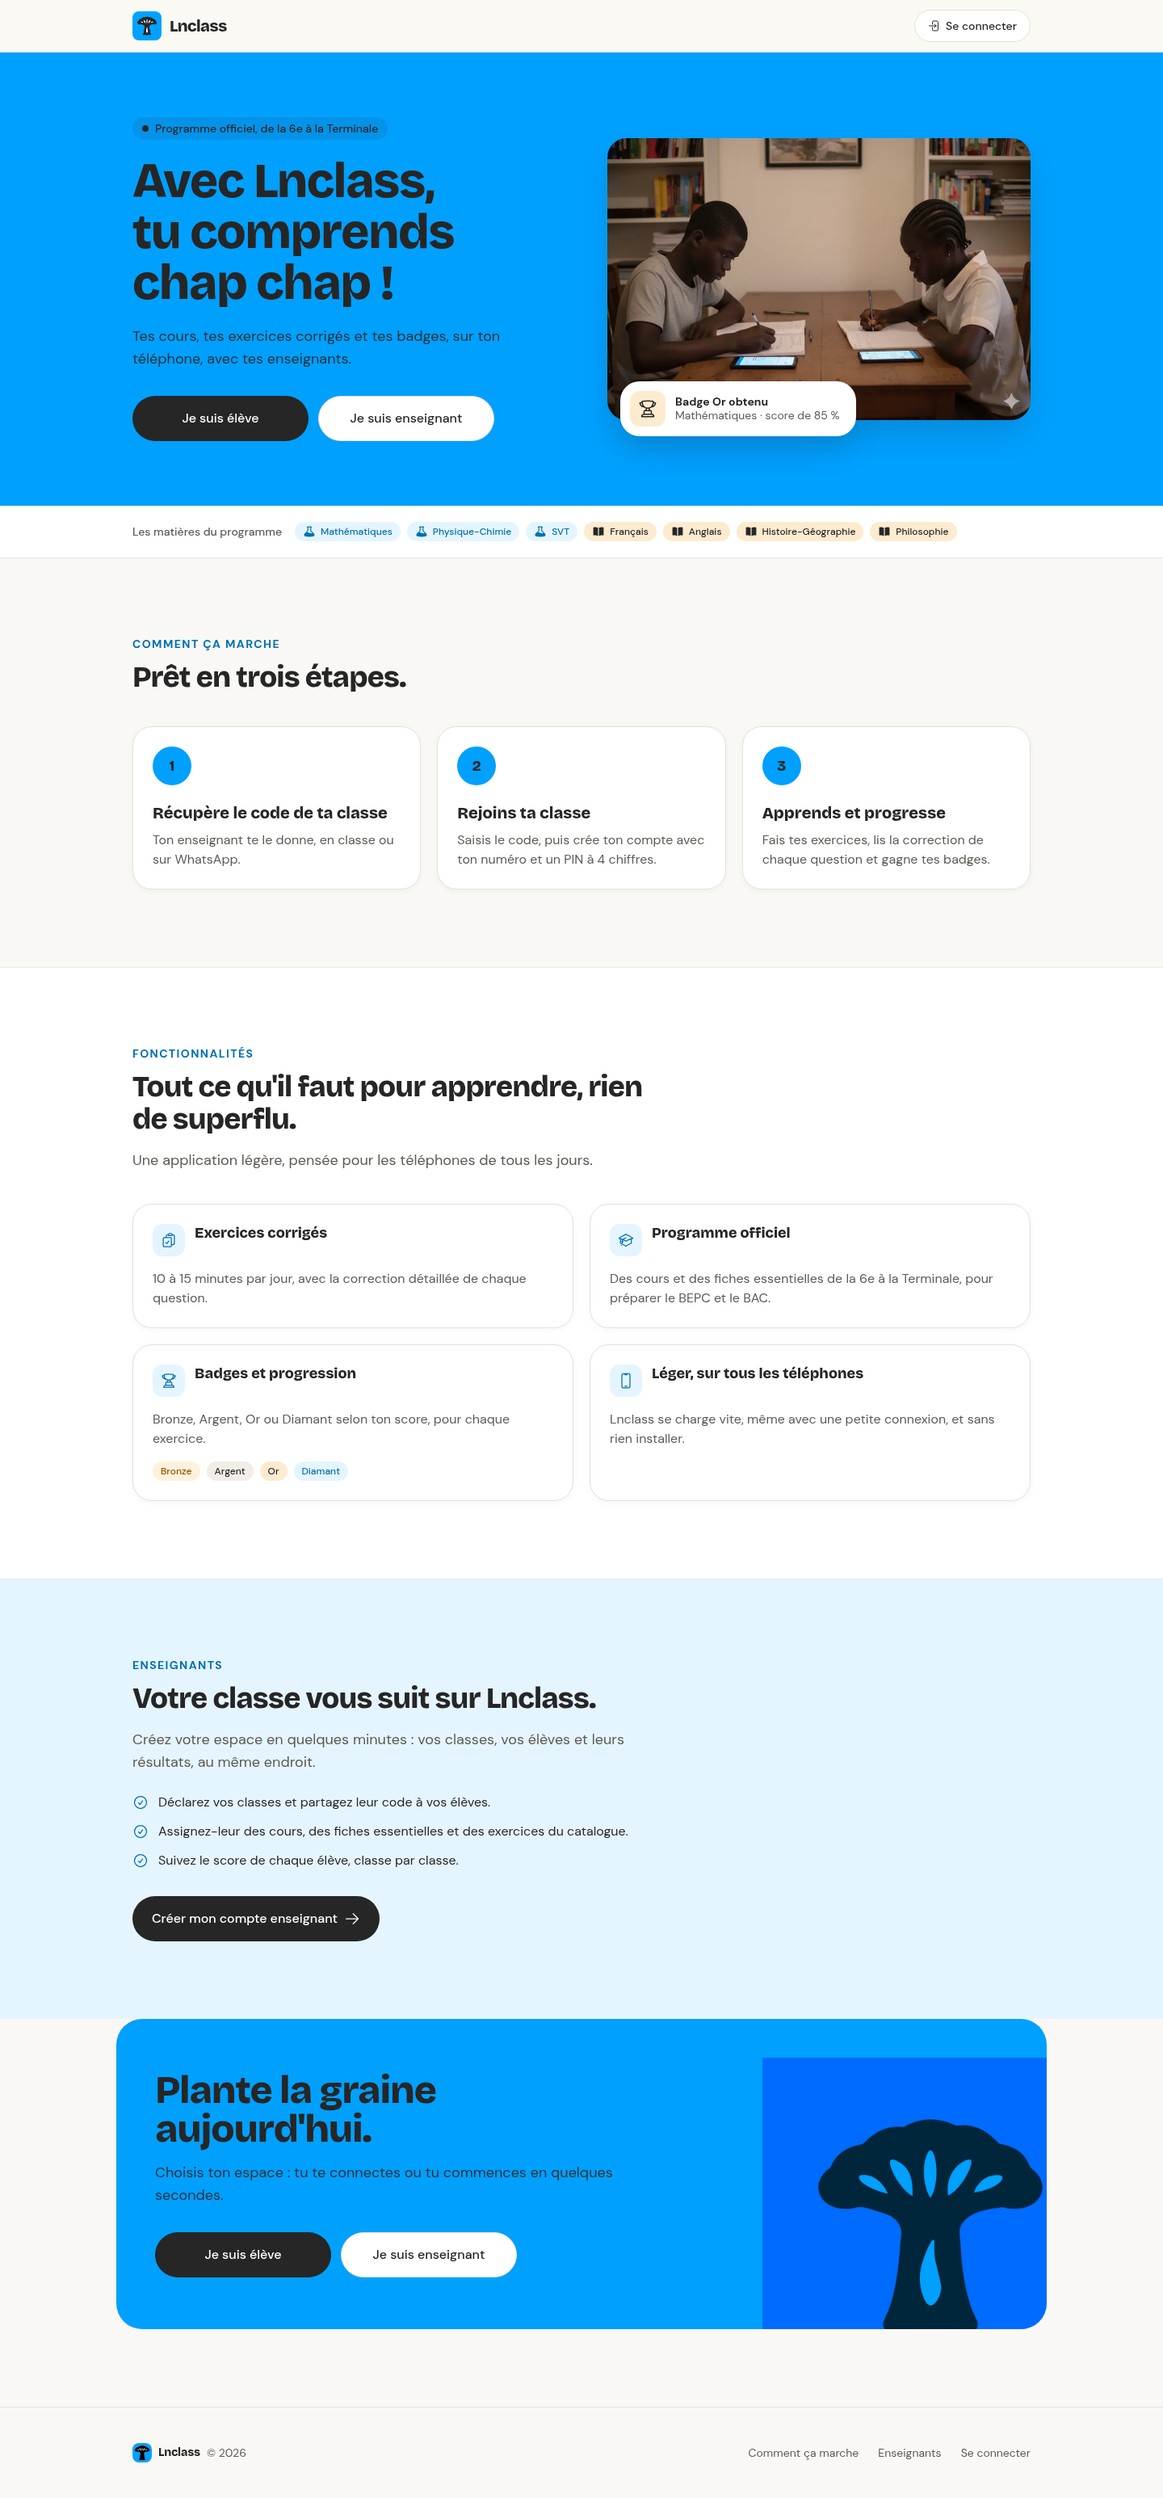
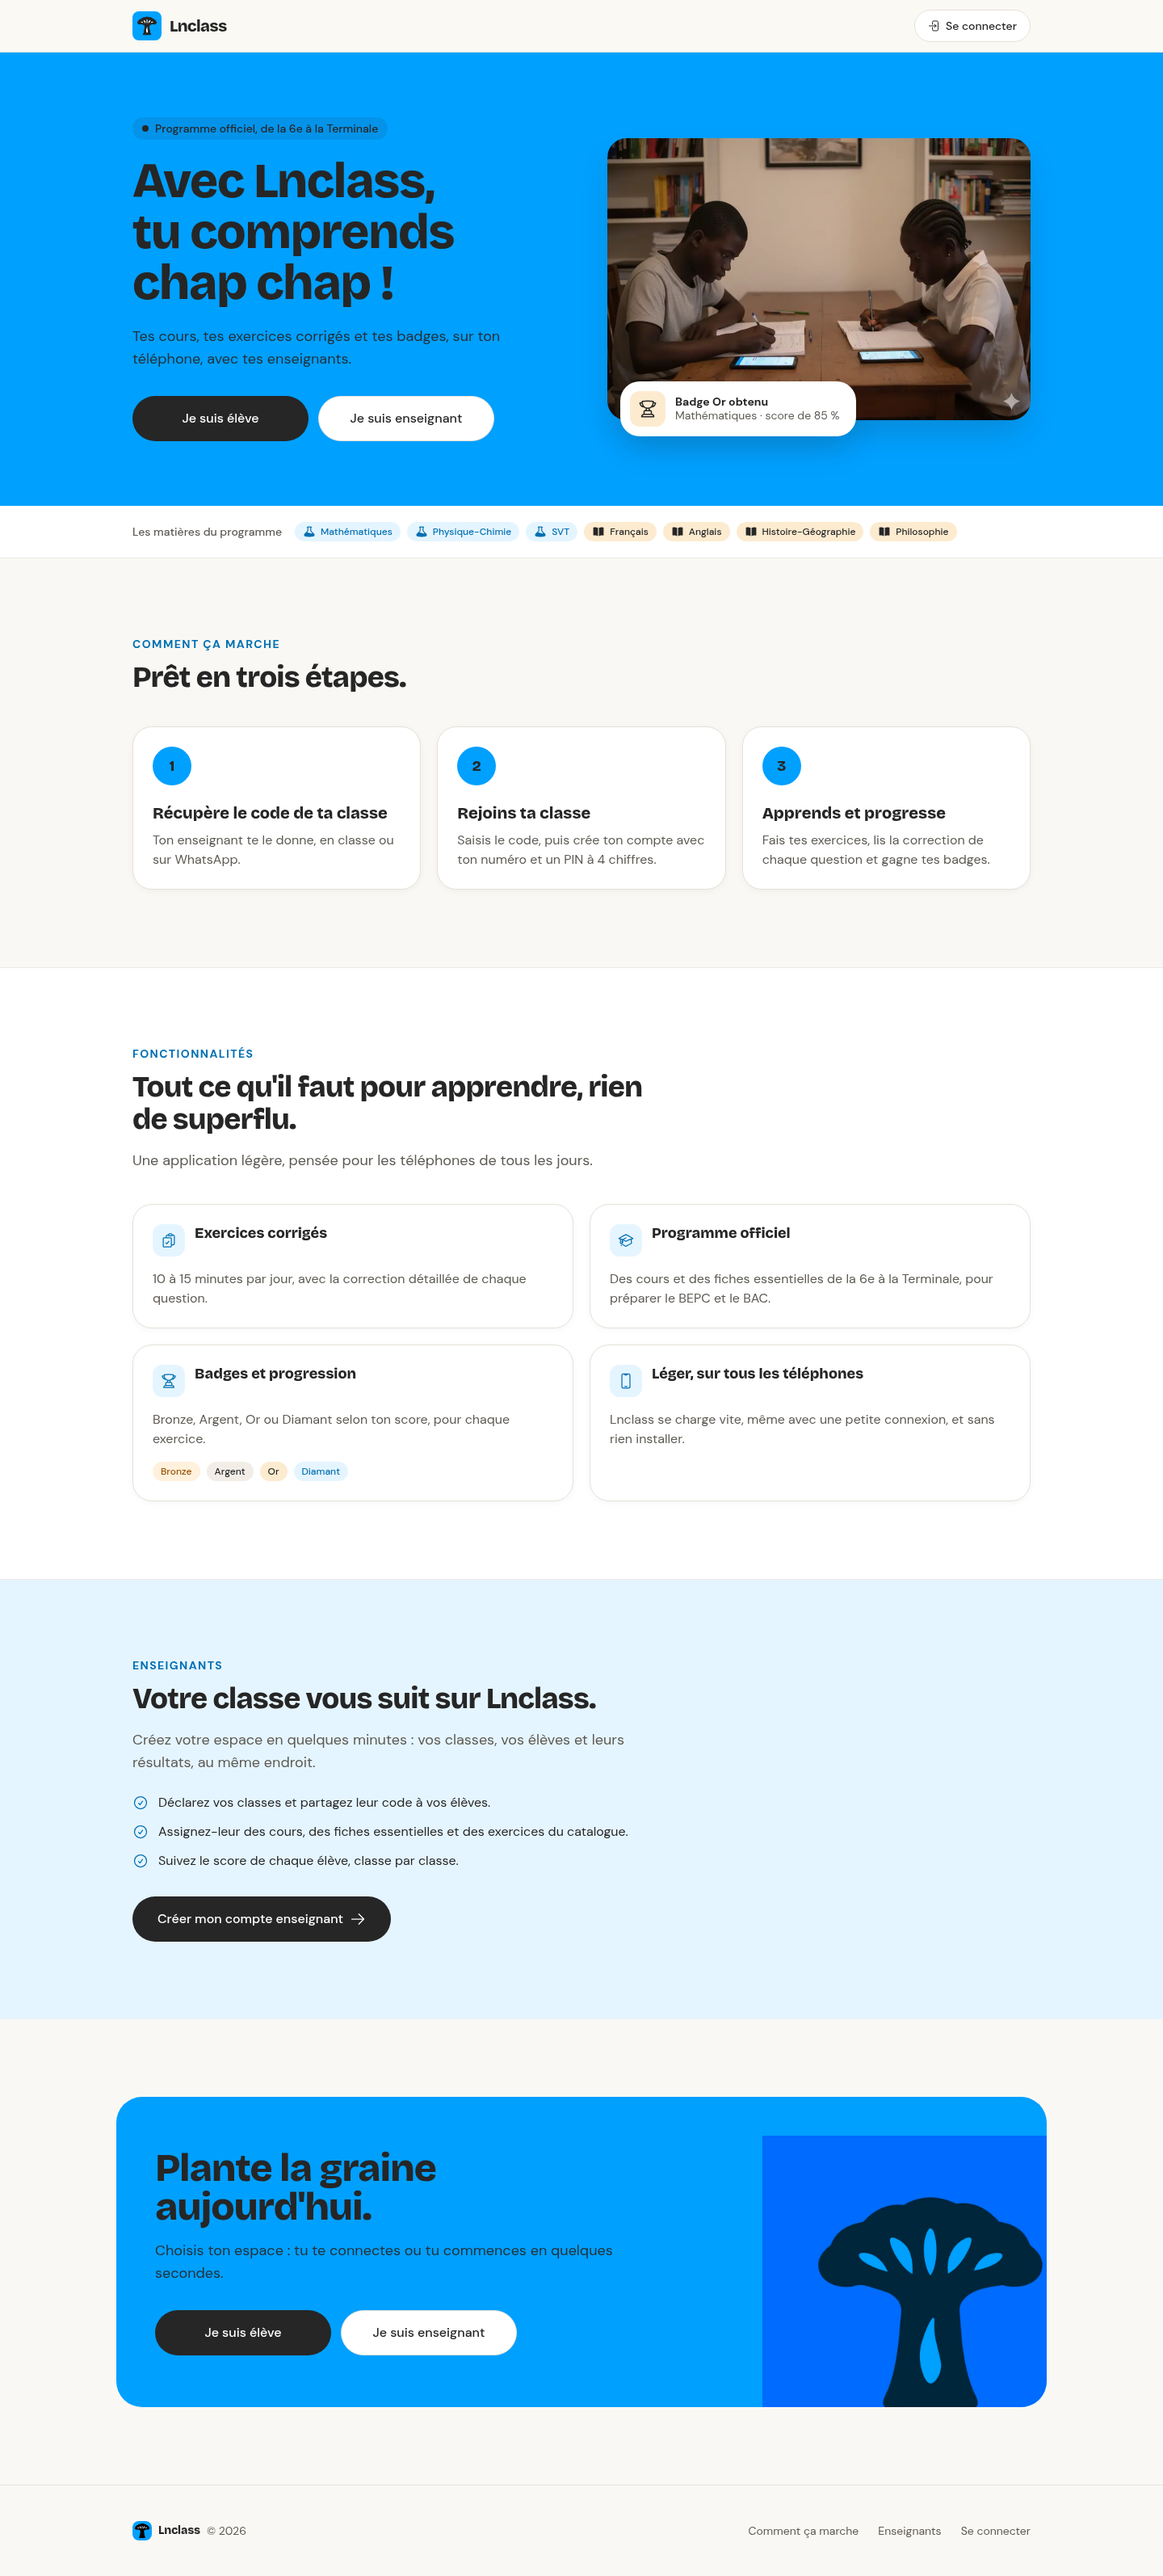
feat(ui): the public home breathes before its final call and fits 320 px
Challenger review of the landing (chantier refonte-homepage): the final call
gets the same vertical rhythm as the other sections, the decorative logo is
hidden below md (it ran under both entry buttons on phones), the subjects
band centres its label and chips on phones, the badge card gets 36 px above
the band, and the teacher CTA goes full width on phones so a 320 px screen
no longer scrolls sideways. UDR-0056 updated; captures retaken once the
modal animation has finished.

Claude-Session: https://claude.ai/code/session_01TmxrHAeYqyT5ewsEwFjY1s

diff --git a/docs/decisions/udr/0056-page-d-accueil-un-ecran-une-decision.md b/docs/decisions/udr/0056-page-d-accueil-un-ecran-une-decision.md
@@ -44,7 +44,7 @@ div.min-h-screen.bg-paper
 │     └─ ui_button t(".nav.sign_in"), href: new_session_path, variant: :secondary, size: :sm, icon: "arrow-right-end-on-rectangle"
 ├─ main
 │  ├─ section#hero[aria-labelledby=hero-title].bg-brand
-│  │  └─ div.mx-auto.grid.max-w-page.items-center.gap-10.px-gutter.py-10.md:grid-cols-2.md:gap-16.md:py-20
+│  │  └─ div.mx-auto.grid.max-w-page.items-center.gap-10.px-gutter.py-10.pb-14.md:grid-cols-2.md:gap-16.md:py-20
 │  │     ├─ div
 │  │     │  ├─ p.inline-flex.items-center.gap-2.rounded-full.bg-ink/10.px-3.py-1.text-sm.font-medium   (span.size-2.rounded-full.bg-ink[aria-hidden] + t(".hero.eyebrow"))
 │  │     │  ├─ h1#hero-title.mt-5.font-display.text-4xl.leading-display.font-extrabold.tracking-tight.text-balance.sm:text-5xl.lg:text-6xl   t(".hero.title")
@@ -58,8 +58,8 @@ div.min-h-screen.bg-paper
 │  │           ├─ span.grid.size-11.place-items-center.rounded-ln.bg-gold/20   (ui_icon "trophy", size: :lg)
 │  │           └─ span.text-sm.leading-tight   (strong.block.font-bold t(".hero.card_title") + span.text-mute t(".hero.card_meta"))
 │  ├─ section#matieres[aria-labelledby=matieres-title].border-b.border-ink/10.bg-white
-│  │  └─ div.mx-auto.flex.max-w-page.flex-wrap.items-center.gap-2.px-gutter.py-5
-│  │     ├─ h2#matieres-title.mr-2.text-sm.font-medium.text-mute   t(".subjects.label")
+│  │  └─ div.mx-auto.flex.max-w-page.flex-wrap.items-center.justify-center.gap-2.px-gutter.py-5.sm:justify-start
+│  │     ├─ h2#matieres-title.w-full.text-center.text-sm.font-medium.text-mute.sm:mr-2.sm:w-auto.sm:text-left   t(".subjects.label")
 │  │     └─ ui_subject_badge name, category:   × 7, dans l'ordre et avec la catégorie du référentiel (voir Contenu)
 │  ├─ section#comment[aria-labelledby=comment-title].scroll-mt-20.py-16.md:py-24
 │  │  └─ div.mx-auto.max-w-page.px-gutter
@@ -82,10 +82,10 @@ div.min-h-screen.bg-paper
 │  │     ├─ p eyebrow t(".teachers.eyebrow") · h2#enseignants-title t(".teachers.title") · p.mt-4.text-lg.text-mute t(".teachers.lead")
 │  │     ├─ ul.mt-6.space-y-3
 │  │     │  └─ li.flex.items-start.gap-3   × 3 (classrooms · assign · follow) : ui_icon "check-circle", class: "mt-0.5 text-brand-strong" + span
-│  │     └─ div.mt-8 : ui_button t(".teachers.cta"), href: new_teacher_registration_path, size: :lg, icon_end: "arrow-right"
-│  └─ section#rejoindre[aria-labelledby=rejoindre-title].scroll-mt-20.px-gutter.pb-16.md:pb-24
+│  │     └─ div.mt-8.sm:max-w-xs : ui_button t(".teachers.cta"), href: new_teacher_registration_path, size: :lg, full: true, icon_end: "arrow-right"
+│  └─ section#rejoindre[aria-labelledby=rejoindre-title].scroll-mt-20.px-gutter.py-16.md:py-24
 │     └─ div.relative.mx-auto.max-w-page.overflow-hidden.rounded-sheet.bg-brand.px-6.py-12.sm:px-12.md:py-16
-│        ├─ image_tag "logo/lnclass.jpeg", alt: "", width: 320, height: 320, aria-hidden   .pointer-events-none.absolute.-right-16.-bottom-20.w-80.opacity-90.mix-blend-multiply.md:w-104
+│        ├─ image_tag "logo/lnclass.jpeg", alt: "", width: 320, height: 320, aria-hidden   .pointer-events-none.absolute.-right-16.-bottom-20.hidden.w-80.opacity-90.mix-blend-multiply.md:block.md:w-104   (visible à partir de `md` seulement)
 │        └─ div.relative.max-w-xl
 │           ├─ h2#rejoindre-title.font-display.text-3xl.font-extrabold.tracking-tight.sm:text-5xl   t(".join.title")
 │           ├─ p.mt-4.text-lg.text-ink/90   t(".join.lead")
@@ -109,7 +109,7 @@ div.min-h-screen.bg-paper
 - Couleurs : `brand` (héros, appel final, disques des étapes ; le texte posé dessus est `ink`, `ink/90` pour le chapeau), `brand-soft` (section « Enseignants », tuiles d'icône des cartes), `brand-strong` (sur-titres, coches, texte des badges de Sciences), `paper` (fond de page, en-tête), `white` (cartes, bande des matières, section des promesses, carte du badge), `ink` et ses opacités `ink/10` (filets, pastille), `mute` (textes secondaires, pied), `line` (bordure des cartes), `gold/20` (tuile du trophée). Aucun `teacher`, `team`, `school`, `success`, `warning` ni `error` en surface ; `warning` et `info` seulement par `ui_badge` pour Bronze et Diamant.
 - Typographie : `font-display font-extrabold` pour h1, h2, h3, les numéros et le nom « Lnclass » ; h1 `text-4xl sm:text-5xl lg:text-6xl leading-display tracking-tight text-balance` ; h2 `text-3xl sm:text-4xl` (`sm:text-5xl` dans l'appel final) ; h3 `text-xl` ; sur-titres `text-sm font-bold tracking-widest uppercase` ; chapeaux `text-lg` (celui du héros `text-base sm:text-lg`, pour que la décision tienne dans le premier écran d'un téléphone) ; pied `text-sm`.
 - Rayons et ombres : `rounded-card` (cartes, photo, carte du badge), `rounded-sheet` (appel final), `rounded-full` (pastille, disques, boutons), `rounded-ln` (tuile du trophée), `rounded-sm` (logos) ; `shadow-card` (cartes des étapes), `shadow-pop` (photo, carte du badge).
-- Espacements : sections `py-16 md:py-24`, héros `py-10 md:py-20`, bande des matières `py-5`, pied `py-8` ; gouttière `px-gutter` ; largeur `max-w-page` ; grilles `gap-5`, entrées `gap-3`. Ancres `scroll-mt-20` (l'en-tête mesure `h-bar`).
+- Espacements : sections `py-16 md:py-24` (l'appel final compris : 64 px de papier le séparent de la bande « Enseignants »), héros `py-10 pb-14 md:py-20` (la carte du badge déborde de 20 px sous la photo ; 36 px la séparent de la bande des matières), bande des matières `py-5`, pied `py-8` ; gouttière `px-gutter` ; largeur `max-w-page` ; grilles `gap-5`, entrées `gap-3`. Ancres `scroll-mt-20` (l'en-tête mesure `h-bar`).
 
 **Comportement**
 - Modales : contrôleur `modal` du socle, par `ui_modal` ; le déclencheur porte `data-action="modal#open"`, `aria-haspopup="dialog"`, `aria-controls` ; la `<dialog>` native fournit le piège du focus, Échap et le fond cliquable ; la modale se ferme avant la mise en cache Turbo ; suivre un lien de la modale est une navigation Turbo (UDR-0012). Le titre de l'onglet est celui de la modale tant qu'elle est ouverte, puis « Accueil · Lnclass ».
@@ -124,8 +124,9 @@ div.min-h-screen.bg-paper
 - Un seul `h1` ; chaque section est nommée par `aria-labelledby` vers son `h2` ; la bande des matières a son `h2` (petit, `text-mute`) ; les étapes sont un `ol`, les promesses enseignant un `ul`.
 - Cibles ≥ 48 px : entrées et bouton enseignant `lg` (56 px), « Se connecter » `sm` (40 px, zone de 48 px par le pseudo-élément), logo `min-h-tap`, liens du pied `min-h-tap`. Focus visible par les composants et `focus-visible:outline-brand` sur le logo.
 - Contrastes : `ink` sur `brand` 5,38 ; `ink/90` sur `brand` ≥ 4,5 ; `brand-strong` sur `brand-soft` 4,75 ; `mute` sur `brand-soft` 6,1 ; `mute` sur `white` et `paper` ≥ 6.
-- Images : la photo a un `alt` qui décrit la scène ; logos décoratifs `alt=""`, le logo de l'appel final `aria-hidden="true"` ; toute image déclare `width` et `height`.
-- À 390 px et 360 px : aucun défilement horizontal ; les deux entrées du héros sont visibles sans défiler à 360 × 640.
+- Images : la photo a un `alt` qui décrit la scène ; logos décoratifs `alt=""`, le logo de l'appel final `aria-hidden="true"` et masqué sous `md` (au téléphone, il passait sous les deux entrées) ; toute image déclare `width` et `height`.
+- À 390 px, 360 px et 320 px : aucun défilement horizontal (le bouton enseignant est pleine largeur au téléphone, borné à `max-w-xs` au-delà) ; les deux entrées du héros sont visibles sans défiler à 360 × 640 ; à 320 px la pastille du héros passe sur deux lignes et les entrées restent dans le premier écran.
+- Au téléphone, la bande des matières centre son titre et ses pastilles (deux, trois, deux) ; à partir de `sm`, titre et pastilles s'alignent à gauche sur une ligne.
 
 **Poids**
 - `app/assets/images/homepage/student.webp` : 960 × 640, ≤ 100 Ko (22 Ko mesurés). Le PNG de 1,3 Mo est supprimé.
